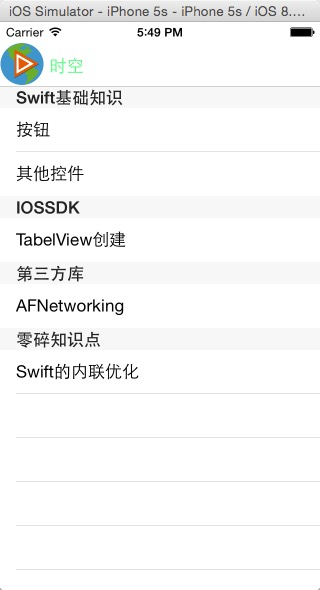
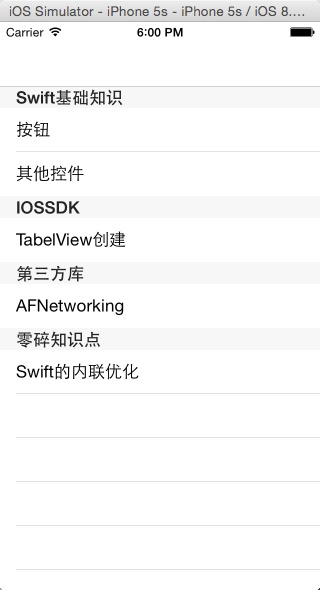
nothing

Changed region(s): [[0.0, 0.061, 0.2812, 0.1525], [0.4375, 0.0305, 0.5625, 0.061]]

diff --git a/LearnIOS/AppDelegate.swift b/LearnIOS/AppDelegate.swift
@@ -20,16 +20,12 @@ class AppDelegate: UIResponder, UIApplicationDelegate {
         
         var RootNavigationVC = UINavigationController(rootViewController: currentVC!)
         
-        var logoImage = UIImage(named: "ssicon.png")
-        var ImageView = UIImageView(image: logoImage)
-        ImageView.frame = CGRectMake(0,20,44,44);
-        var PanoVideoText = "时空"
+
         var TextLabel = UILabel(frame: CGRectMake(50, 24, 80, 40))
-        TextLabel.text = PanoVideoText
+
         TextLabel.font = UIFont(name: "s", size: 20)
         TextLabel.textColor = UIColor(red: 0.2, green: 1.0, blue: 0.5, alpha: 1.0)
         RootNavigationVC.navigationBar.translucent = false
-        RootNavigationVC.view.addSubview(ImageView)
         RootNavigationVC.view.addSubview(TextLabel)
         RootNavigationVC.view.backgroundColor = UIColor.blackColor()
         window?.rootViewController = RootNavigationVC
